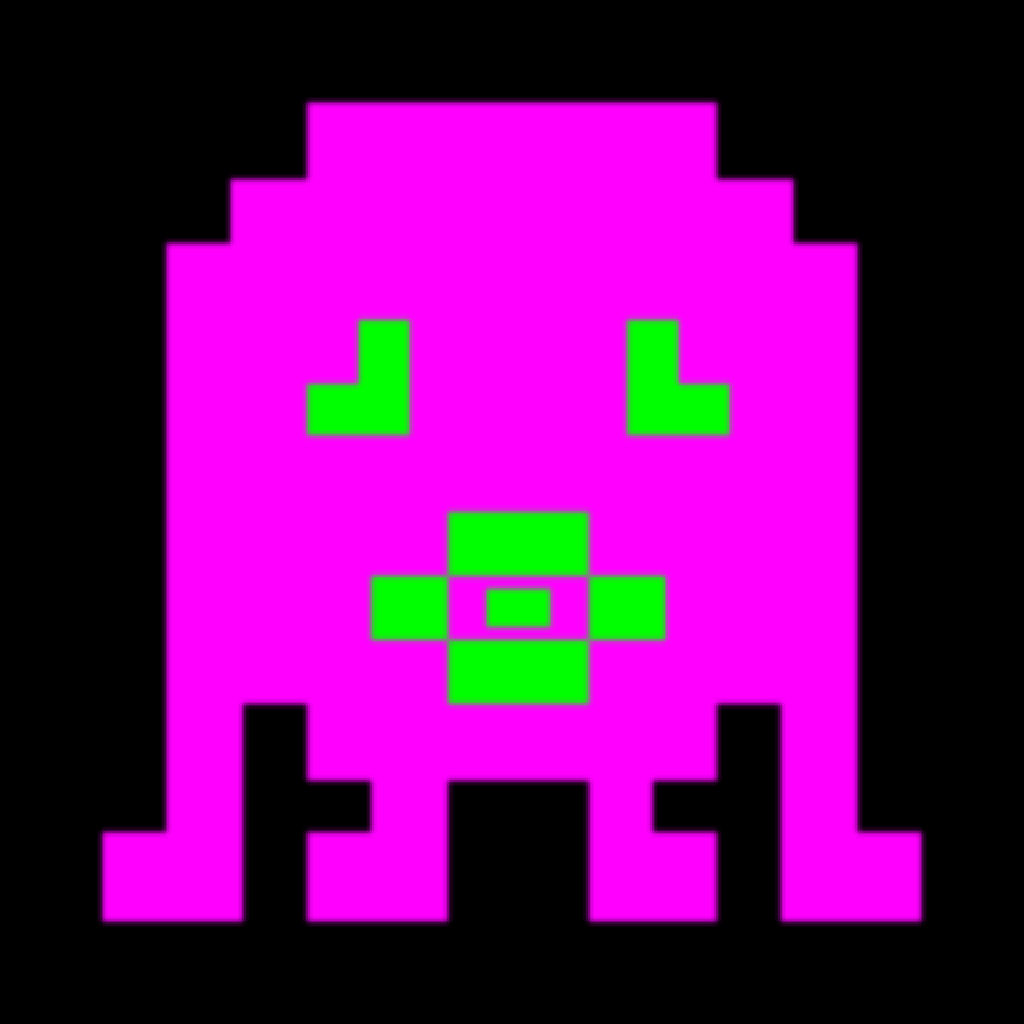
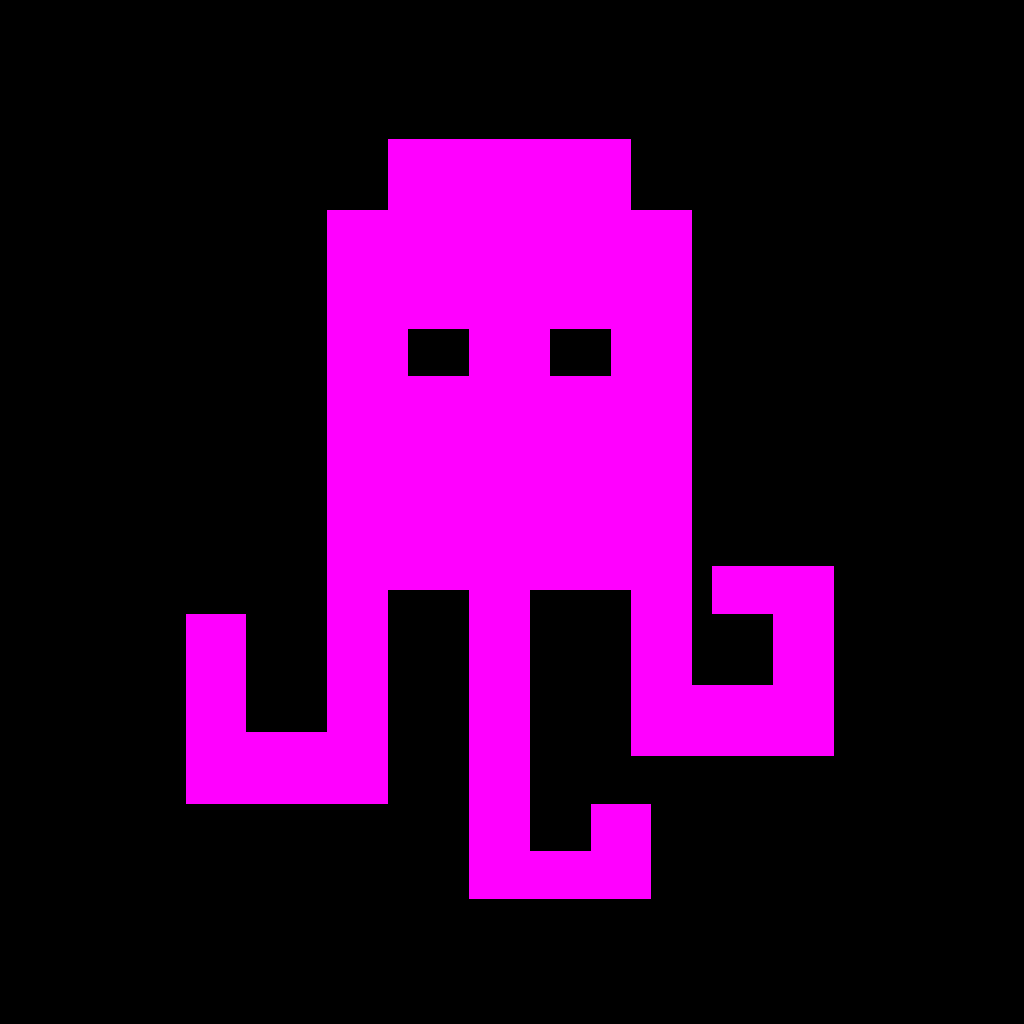
various refactoring, new octopus, new swipe system

diff --git a/PsyNaut/Sources/PNGameSession.m b/PsyNaut/Sources/PNGameSession.m
@@ -7,10 +7,12 @@
 //
 
 #import "PNGameSession.h"
+#import "PNCollisionCollaborator.h"
 #import "PNItem.h"
 #import "PNMazeGenerator.h"
 #import "MXToolBox.h"
 #import "PNConstants.h"
+#import "PNMacros.h"
 #import <MXAudioManager/MXAudioManager.h>
 
 #define TILE_SIZE 32
@@ -23,13 +25,14 @@
 @property(nonatomic,assign,readwrite) CGFloat currentTime;
 @property(nonatomic,strong) NSMutableArray<UIImageView *> *walls;
 @property(nonatomic,strong) NSMutableArray<PNItem *> *items;
+@property(nonatomic,strong) PNCollisionCollaborator *collisionCollaborator;
 
 @property(nonatomic,strong) PNMazeGenerator *mazeGenerator;
 @property(nonatomic,assign) NSUInteger tileWidth;
 @property(nonatomic,assign) NSUInteger tileHeight;
 @property(nonatomic,assign) MazeTyleType **maze;
-@property(nonatomic,assign) NSUInteger row;
-@property(nonatomic,assign) NSUInteger col;
+@property(nonatomic,assign) NSUInteger numRow;
+@property(nonatomic,assign) NSUInteger numCol;
 
 @property(nonatomic,strong) UIView *mazeView;
 @property(nonatomic,weak) UIView *gameView;
@@ -41,8 +44,9 @@
 {
   self = [super init];
   _gameView = view;
-  self.currentScore = 0;
-  self.currentLevel = 1;
+  _currentScore = 0;
+  _currentLevel = 1;
+  _collisionCollaborator = [PNCollisionCollaborator new];
   _walls = [NSMutableArray array];
   _items = [NSMutableArray array];
   _player = [PNPlayer new];
@@ -52,9 +56,9 @@
   //--- setup maze ---//
   self.tileWidth = TILE_SIZE;
   self.tileHeight = TILE_SIZE;
-  self.col = 15;
-  self.row = 15;
-  self.mazeGenerator = [[PNMazeGenerator alloc] initWithRow:self.row col:self.col startingPosition:CGPointMake(STARTING_X, STARTING_Y)];
+  self.numCol = 15;
+  self.numRow = 15;
+  self.mazeGenerator = [[PNMazeGenerator alloc] initWithRow:self.numRow col:self.numCol startingPosition:CGPointMake(STARTING_X, STARTING_Y)];
   
   [self initMaze];
   [self initPlayer];
@@ -69,18 +73,17 @@
   [self.gameView addSubview:self.mazeView];
   [self.gameView sendSubviewToBack:self.mazeView];
   
-  
   [self.mazeGenerator calculateMaze:^(MazeTyleType **maze)
    {
      self.maze = maze;
-     for (int r = 0; r < self.row ; r++)
+     for (int r = 0; r < self.numRow ; r++)
      {
-       for (int c = 0; c < self.col; c++)
+       for (int c = 0; c < self.numCol; c++)
        {
          if (maze[r][c] == MTWall)
          {
            UIImageView *wall = [[UIImageView alloc] initWithFrame:CGRectMake(c * self.tileWidth, r * self.tileHeight, self.tileWidth, self.tileHeight)];
-           [wall setImage:[UIImage imageNamed:@"wall"]];
+           [wall setImage:[[UIImage imageNamed:@"wall"] imageColored:BLUE_COLOR]];
            [self.mazeView addSubview:wall];
            [self.walls addObject:wall];
            [self.mazeView sendSubviewToBack:wall];
@@ -95,7 +98,7 @@
          else if (maze[r][c] == MTEnd)
          {
            UIImageView *wall = [[UIImageView alloc] initWithFrame:CGRectMake(c * self.tileWidth, r * self.tileHeight, self.tileWidth, self.tileHeight)];
-           wall.backgroundColor = [UIColor greenColor];
+           wall.backgroundColor = GREEN_COLOR;
            [self.mazeView addSubview:wall];
            [self.mazeView sendSubviewToBack:wall];
          }
@@ -106,9 +109,10 @@
 
 - (void)initPlayer
 {
-  UIImage *spriteSheet = [UIImage imageNamed:@"octopus"];
+  UIImage *spriteSheet = [UIImage imageNamed:@"oct"];
   NSArray *arrayWithSprites = [spriteSheet spritesWithSpriteSheetImage:spriteSheet spriteSize:CGSizeMake(self.tileWidth, self.tileHeight)];
-  self.player = [[PNPlayer alloc] initWithFrame:CGRectMake(STARTING_Y * self.tileWidth, STARTING_X * self.tileHeight, self.tileWidth - 1, self.tileHeight - 1)];
+  //  self.player = [[PNPlayer alloc] initWithFrame:CGRectMake(STARTING_Y * self.tileWidth, STARTING_X * self.tileHeight, self.tileWidth - 2, self.tileHeight - 2)];
+  self.player = [[PNPlayer alloc] initWithFrame:CGRectMake(STARTING_Y * self.tileWidth, STARTING_X * self.tileHeight, self.tileWidth - PLAYER_SPEED, self.tileHeight - PLAYER_SPEED)];
   [self.player setAnimationImages:arrayWithSprites];
   self.player.animationDuration = 0.4f;
   self.player.animationRepeatCount = 0;
@@ -119,9 +123,9 @@
 
 - (void)initItems
 {
-  for (int r = 0; r < self.row ; r++)
+  for (int r = 0; r < self.numRow ; r++)
   {
-    for (int c = 0; c < self.col; c++)
+    for (int c = 0; c < self.numCol; c++)
     {
       if (self.maze[r][c] == MTPath)
       {
@@ -138,63 +142,87 @@
   }
 }
 
-- (void)initOpponent
+- (UIImageView *)checkCollisionForX:(CGPoint)velocity
 {
-  
-}
-
-- (void)checkCollisionFor:(CGPoint)velocity collideX:(BOOL *)collideX collideY:(BOOL *)collideY
-{
-  CGRect playerFrame = CGRectMake(self.player.frame.origin.x + velocity.x, self.player.frame.origin.y + velocity.y, self.player.frame.size.width, self.player.frame.size.height);
-  for (UIView *wall in self.walls)
+  CGRect playerFrame = CGRectMake(self.player.frame.origin.x + velocity.x, self.player.frame.origin.y, self.player.frame.size.width, self.player.frame.size.height);
+  for (UIImageView *wall in self.walls)
   {
     if (CGRectIntersectsRect(wall.frame, playerFrame))
     {
-      CGRect testRect_x = CGRectMake(self.player.frame.origin.x + velocity.x, self.player.frame.origin.y, self.player.frame.size.width, self.player.frame.size.height);
-      if (CGRectIntersectsRect(wall.frame, testRect_x))
-      {
-        *collideX = YES;
-      }
-      
-      CGRect testRect_y = CGRectMake(self.player.frame.origin.x, self.player.frame.origin.y + velocity.y, self.player.frame.size.width, self.player.frame.size.height);
-      if (CGRectIntersectsRect(wall.frame, testRect_y))
-      {
-        *collideY = YES;
-      }
+      return wall;
     }
   }
+  return nil;
+}
+
+- (UIImageView *)checkCollisionForY:(CGPoint)velocity
+{
+  CGRect playerFrame = CGRectMake(self.player.frame.origin.x, self.player.frame.origin.y + velocity.y, self.player.frame.size.width, self.player.frame.size.height);
+  for (UIImageView *wall in self.walls)
+  {
+    if (CGRectIntersectsRect(wall.frame, playerFrame))
+    {
+      return wall;
+    }
+  }
+  return nil;
+}
+
+- (int)getMagicNumber:(float)input
+{
+  int output;
+  int tile_size = TILE_SIZE;
+  
+  float temp = (float)input / (float)tile_size;
+  
+  int a,b;
+  a = floorf(temp);
+  b = ceilf(temp);
+  bool bestA = fabs((tile_size * a) - input) < fabs((tile_size * b) - input);
+  output = bestA ? tile_size * a : tile_size * b;
+  return output;
 }
 
 - (void)update:(CGFloat)deltaTime
 {
-  //--- walls collision detection ---//
   CGPoint tempVelocity = self.player.velocity;
+  
+  //--- walls horizontal collision detection ---//
   tempVelocity.x += tempVelocity.x * deltaTime;
-  tempVelocity.y += tempVelocity.y * deltaTime;
-  
-  BOOL collideX = NO;
-  BOOL collideY = NO;
-  [self checkCollisionFor:CGPointMake(tempVelocity.x, tempVelocity.y) collideX:&collideX collideY:&collideY];
-  
-  if (collideX)
+  UIImageView *wallCollidesX = [self checkCollisionForX:tempVelocity];
+  PlayerDirection direction = self.player.lastDirectionGot;
+  if (!wallCollidesX)
+  {
+    self.player.lastDirectionGot = tempVelocity.x > 0 ? PDEast : PDWest;
+    self.player.frame = CGRectMake(self.player.frame.origin.x + tempVelocity.x, self.player.frame.origin.y, self.player.frame.size.width, self.player.frame.size.height);
+  }
+  else
   {
     tempVelocity.x = 0;
   }
   
-  if (collideY)
+  //--- walls vertical collision detection ---//
+  tempVelocity.y += tempVelocity.y * deltaTime;
+  UIImageView *wallCollidesY = [self checkCollisionForY:tempVelocity];
+  if (!wallCollidesY)
+  {
+    self.player.lastDirectionGot = tempVelocity.y > 0 ? PDSouth : PDNorth;
+    self.player.frame = CGRectMake(self.player.frame.origin.x, self.player.frame.origin.y + tempVelocity.y, self.player.frame.size.width, self.player.frame.size.height);
+  }
+  else
   {
     tempVelocity.y = 0;
   }
   
-  //--- updating player frame ---//
+  if (direction != self.player.lastDirectionGot)
+  {
+
+  }
+  
   if (tempVelocity.x == 0 && tempVelocity.y == 0)
   {
     self.player.velocity = CGPointMake(0, 0);
-    self.player.frame = CGRectMake((int)self.player.frame.origin.x, (int)self.player.frame.origin.y, self.player.frame.size.width, self.player.frame.size.height);
-  }
-  else
-  {
-    self.player.frame = CGRectMake(self.player.frame.origin.x + tempVelocity.x, self.player.frame.origin.y + tempVelocity.y, self.player.frame.size.width, self.player.frame.size.height);
+    self.player.frame = CGRectMake([self getMagicNumber:self.player.frame.origin.x], [self getMagicNumber:self.player.frame.origin.y], self.player.frame.size.width, self.player.frame.size.height);
   }
   
   //--- items collision detection ---//
@@ -203,7 +231,7 @@
   {
     if (CGRectIntersectsRect(item.frame, self.player.frame))
     {
-      [[MXAudioManager sharedInstance] play:STGoodHit];
+      //      [[MXAudioManager sharedInstance] play:STGoodHit];
       item.hidden = true;
       [array addObject:item];
       continue;

diff --git a/PsyNaut/Sources/PNPlayer.m b/PsyNaut/Sources/PNPlayer.m
@@ -8,7 +8,8 @@
 
 #import "PNPlayer.h"
 
-#define SPEED 1.5
+@interface PNPlayer()
+@end
 
 @implementation PNPlayer
 
@@ -16,22 +17,30 @@
 {
   if (direction == UISwipeGestureRecognizerDirectionRight)
   {
-    self.velocity = CGPointMake(SPEED, self.velocity.y);
+    self.horizontalDirection = PDEast;
+    self.velocity = CGPointMake(PLAYER_SPEED, self.velocity.y);
+    NSLog(@"UISwipeGestureRecognizerDirectionRight");
   }
   
   if (direction == UISwipeGestureRecognizerDirectionLeft)
   {
-    self.velocity = CGPointMake(-SPEED, self.velocity.y);
+    self.horizontalDirection = PDWest;
+    self.velocity = CGPointMake(-PLAYER_SPEED, self.velocity.y);
+    NSLog(@"UISwipeGestureRecognizerDirectionLeft");
   }
   
   if (direction == UISwipeGestureRecognizerDirectionUp)
   {
-    self.velocity = CGPointMake(self.velocity.x, -SPEED);
+    self.verticalDirection = PDNorth;
+    self.velocity = CGPointMake(self.velocity.x, -PLAYER_SPEED);
+    NSLog(@"UISwipeGestureRecognizerDirectionUp");
   }
   
   if (direction == UISwipeGestureRecognizerDirectionDown)
   {
-    self.velocity = CGPointMake(self.velocity.x, SPEED);
+    self.verticalDirection = PDSouth;
+    self.velocity = CGPointMake(self.velocity.x, PLAYER_SPEED);
+    NSLog(@"UISwipeGestureRecognizerDirectionDown");
   }
 }
 

diff --git a/PsyNaut/Sources/PNPlayer.h b/PsyNaut/Sources/PNPlayer.h
@@ -8,7 +8,20 @@
 
 #import <UIKit/UIKit.h>
 
+typedef NS_ENUM(NSUInteger, PlayerDirection) {
+  PDNone,
+  PDNorth,
+  PDSouth,
+  PDEast,
+  PDWest
+};
+
+#define PLAYER_SPEED 1.5
+
 @interface PNPlayer : UIImageView
 - (void)didSwipe:(UISwipeGestureRecognizerDirection)direction;
 @property(nonatomic,assign) CGPoint velocity;
+@property(nonatomic,assign) PlayerDirection horizontalDirection;
+@property(nonatomic,assign) PlayerDirection verticalDirection;
+@property(nonatomic,assign) PlayerDirection lastDirectionGot;
 @end

diff --git a/PsyNaut/Sources/PNCollisionCollaborator.h b/PsyNaut/Sources/PNCollisionCollaborator.h
@@ -1,0 +1,13 @@
+//
+//  PNCollisionCollaborator.h
+//  Psynaut
+//
+//  Created by mugx on 18/03/16.
+//  Copyright © 2016 mugx. All rights reserved.
+//
+
+#import <Foundation/Foundation.h>
+
+@interface PNCollisionCollaborator : NSObject
+
+@end

diff --git a/PsyNaut/Sources/PNCollisionCollaborator.m b/PsyNaut/Sources/PNCollisionCollaborator.m
@@ -1,0 +1,13 @@
+//
+//  PNCollisionCollaborator.m
+//  Psynaut
+//
+//  Created by mugx on 18/03/16.
+//  Copyright © 2016 mugx. All rights reserved.
+//
+
+#import "PNCollisionCollaborator.h"
+
+@implementation PNCollisionCollaborator
+
+@end
